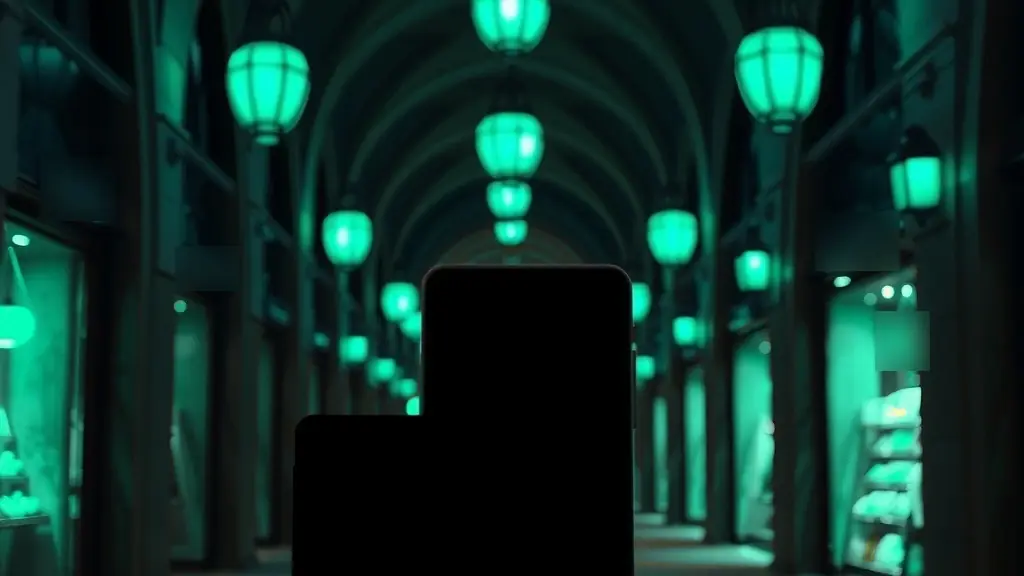
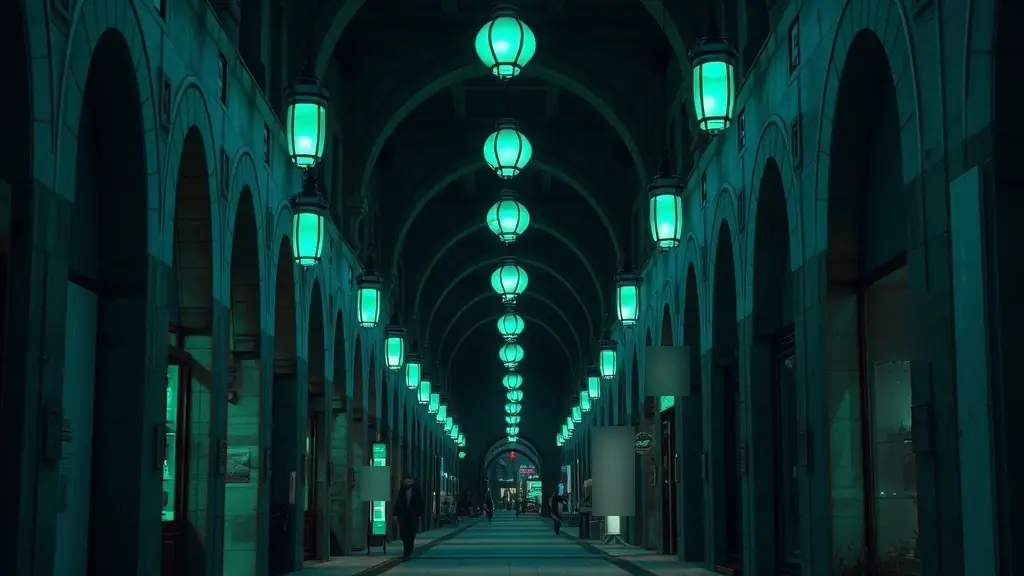
fix(web): stop-1 findings kicker hero privacy target and night carousel band
Claude-Session: https://claude.ai/code/session_01GeHFETcBQ3jaGrN6Q6L6W5
(cherry picked from commit 95dbb221fa3d94a863d00d487b184161e049a4f4)

diff --git a/tests/unit/souq-look-mix.test.ts b/tests/unit/souq-look-mix.test.ts
@@ -100,6 +100,12 @@ describe('the mixes, exactly as designed', () => {
     expect(deals.preset).toMatchObject({ productSource: 'on_sale', titleAr: 'عروض' });
     // quality bar section 9 rule 1: the merchant-photo grid sits on the light band, never on green
     expect(night.sections![4].design).toMatchObject({ bgColor: 'token:inverse', columns: 4 });
+    // B2-19: the curated and the deals carousel sit on the light band as well (merchant photos
+    // shot on white never show as white squares on the green)
+    for (const i of [2, 3])
+      expect(night.sections![i].design, `carousel ${i}`).toMatchObject({
+        bgColor: 'token:inverse',
+      });
   });
 
   it('Showroom: chips under the header, up to three stages, tiles on the surface, 2-col grid', () => {
@@ -117,6 +123,8 @@ describe('the mixes, exactly as designed', () => {
     for (const s of showroom.sections!.slice(1, 4)) {
       expect(s.design).toEqual({ layout: 'stage' });
       expect(s.preset).toMatchObject({ limit: 1 });
+      // STOP-1: no "Gift ideas" kicker (the registry's first spotlight preset) on a stage
+      expect(s.preset).toMatchObject({ heading: '', headingAr: '' });
     }
     expect(showroom.sections![4].design).toMatchObject({
       tileShape: 'rectangle',
@@ -381,6 +389,24 @@ describe('merchant-edited surplus sections (B2-16)', () => {
     expect(sale).toHaveLength(1);
     expect(sale[0].settings.titleAr).toBe('عروض الجمعة');
     expect(sale[0].settings.limit).toBe(5);
+  });
+});
+
+describe('STOP-1 fixes on the composed documents', () => {
+  it('a fresh Showroom stage carries no heading text at all', () => {
+    const doc = applyTemplateFamily(merchantBase(), 'souq', showroom);
+    const stages = all(doc, 'product-spotlight');
+    expect(stages).toHaveLength(3);
+    for (const st of stages) {
+      expect(st.settings.heading).toBe('');
+      expect(st.settings.headingAr).toBe('');
+      expect(JSON.stringify(st.settings)).not.toMatch(/Gift ideas|أفكار للهدايا/);
+    }
+  });
+  it('both Night carousels compose on the light band and validate', () => {
+    const doc = applyTemplateFamily(merchantBase(), 'souq', night);
+    for (const c of all(doc, 'product-carousel')) expect(c.settings.bgColor).toBe('token:inverse');
+    expect(validateDefinitionSync(doc).ok).toBe(true);
   });
 });
 

diff --git a/tests/unit/souq-stop1-fixes.test.tsx b/tests/unit/souq-stop1-fixes.test.tsx
@@ -1,0 +1,50 @@
+// @vitest-environment jsdom
+/** STOP-1 findings (Phase B2 Task 7 wave 1): shared newsletter privacy link target, Night hero asset. */
+import { describe, it, expect, vi, afterEach } from 'vitest';
+import React from 'react';
+import { render, cleanup } from '@testing-library/react';
+import { readFileSync, statSync } from 'node:fs';
+import path from 'node:path';
+import { smallTargets } from '../helpers/target-size';
+
+vi.mock('../../apps/web/src/contexts/StoreContext', () => ({
+  useStore: () => ({ store: { id: 's', slug: 's', isDemo: false, theme: {}, look: null } }),
+  useStoreUrl: () => (p: string) => p,
+  useStoreTheme: () => ({}),
+}));
+vi.mock('../../apps/web/src/contexts/LanguageContext', async importOriginal => ({
+  ...(await importOriginal<Record<string, unknown>>()),
+  useLanguage: () => ({
+    language: 'en',
+    isRtl: false,
+    t: (en: string) => en,
+  }),
+}));
+afterEach(cleanup);
+
+const { NewsletterSection } = await import('../../apps/web/src/builder/sections/NewsletterSection');
+
+describe('newsletter consent line (shared by every store)', () => {
+  it('the Privacy policy link is a >= 44px target', () => {
+    const { container, getByText } = render(<NewsletterSection settings={{}} />);
+    const link = getByText('Privacy policy');
+    expect(link.tagName).toBe('A');
+    expect(link.className).toMatch(/\bmin-h-11\b/);
+    expect(smallTargets(container, 44).filter(x => /Privacy/.test(x))).toEqual([]);
+  });
+});
+
+describe('Night hero asset', () => {
+  const root = path.resolve(__dirname, '../..');
+  it('exists, is within budget and the source prompt names no device', () => {
+    const f = path.join(root, 'scripts/souq-demo/assets/hero-night.webp');
+    expect(statSync(f).size).toBeLessThanOrEqual(140 * 1024);
+    const prompts = readFileSync(path.join(root, 'scripts/souq-demo/prompts.py'), 'utf8');
+    const hero = prompts.slice(
+      prompts.indexOf("add('hero-night'"),
+      prompts.indexOf("add('hero-showroom'")
+    );
+    expect(hero).toMatch(/no devices/);
+    expect(hero).not.toMatch(/smartphone/);
+  });
+});

diff --git a/packages/shared/src/looks/registry.ts b/packages/shared/src/looks/registry.ts
@@ -296,12 +296,16 @@ export const LOOKS: readonly LookDefinition[] = [
           paddingBottom: 'tight',
         },
       },
+      // STOP-1 finding (Ruling B2-19): merchant photos shot on white sit on the light band here
+      // too, never as white squares on the green (quality bar section 9 rule 1).
       {
         type: 'product-carousel',
+        design: { bgColor: 'token:inverse', paddingTop: 'tight', paddingBottom: 'tight' },
         preset: { productSource: 'manual', limit: 8, title: 'From the souq', titleAr: 'من السوق' },
       },
       {
         type: 'product-carousel',
+        design: { bgColor: 'token:inverse', paddingTop: 'tight', paddingBottom: 'tight' },
         preset: { productSource: 'on_sale', limit: 8, title: 'Deals', titleAr: 'عروض' },
       },
       {
@@ -371,17 +375,18 @@ export const LOOKS: readonly LookDefinition[] = [
       {
         type: 'product-spotlight',
         design: { layout: 'stage' },
-        preset: { productSource: 'featured', limit: 1 },
+        // heading '' : the registry's first spotlight preset is "Gift ideas"; a stage has no kicker
+        preset: { productSource: 'featured', limit: 1, heading: '', headingAr: '' },
       },
       {
         type: 'product-spotlight',
         design: { layout: 'stage' },
-        preset: { productSource: 'manual', limit: 1 },
+        preset: { productSource: 'manual', limit: 1, heading: '', headingAr: '' },
       },
       {
         type: 'product-spotlight',
         design: { layout: 'stage' },
-        preset: { productSource: 'manual', limit: 1 },
+        preset: { productSource: 'manual', limit: 1, heading: '', headingAr: '' },
       },
       {
         type: 'collection-list',

diff --git a/apps/web/src/builder/sections/NewsletterSection.tsx b/apps/web/src/builder/sections/NewsletterSection.tsx
@@ -148,7 +148,10 @@ export function NewsletterSection({
         )}
         <p className="mt-3 text-xs text-muted-foreground">
           {tr('By subscribing you agree to receive marketing emails from this store.')}{' '}
-          <a href={storeUrl('/privacy')} className="underline">
+          <a
+            href={storeUrl('/privacy')}
+            className="inline-flex min-h-11 items-center underline underline-offset-4"
+          >
             {tr('Privacy policy')}
           </a>
         </p>

diff --git a/scripts/souq-demo/prompts.py b/scripts/souq-demo/prompts.py
@@ -53,9 +53,9 @@ add('power-bank', prod("a slim slate-black power bank with a short USB cable coi
 # phone-case-set has NO photo on purpose (the no-image product)
 # ---- heroes (16:9)
 add('hero-night', ("a long stone arcade corridor of a souq at night with plain blank arched walls and no shops, lit only by "
-                   "glowing jade green and turquoise glass lanterns hanging in a row, deep teal darkness, one dark slate "
-                   "smartphone with a blank dark screen standing on a plain dark pedestal in the foreground, cinematic "
-                   "photograph, no signs, no signage, no windows with displays, no people, " + NEG + ", no red lights, "
+                   "glowing jade green and turquoise glass lanterns hanging in a row down the middle, deep teal darkness, "
+                   "the centre of the frame is an empty stone floor, nothing on it, no objects, no devices, no people, "
+                   "cinematic photograph, no signs, no signage, no windows with displays, " + NEG + ", no red lights, "
                    "no yellow lights, no orange lanterns"), 'wide')
 add('hero-showroom', ("one dark grey smartphone standing upright on a light grey showroom table, empty light grey "
                       "wall behind it, soft overhead daylight, minimal, wide empty space on the right, " + NEG), 'wide')

diff --git a/docs/RULINGS.md b/docs/RULINGS.md
@@ -6986,4 +6986,6 @@ Ruling B2-16 (Task 4) — the three Souq mixes, and where they deviate from the 
 
 Ruling B2-17 (security review, Task 6) — the demo showroom slugs cannot be squatted, and the seed never takes over a store it does not own. Shape of the risk: the seed upserted a store BY SLUG, so a merchant who registered `storedemo` or `storedemo-souq` first would have been overwritten (catalogue, home, owner-visible settings) by the next seed run, or could have impersonated the official demo. (1) `isDemoShowroomSlug` (`@ebda/shared`, `startsWith('storedemo')`) makes `validateStoreSlug` refuse the whole family with `SLUG_RESERVED` on signup, store create, slug change and the zod edge; `allowProtected` (the super-admin brand override) never lifts it; `deriveStoreSlug` moves a name-derived `storedemo*` to `store-demo*`. It is deliberately NOT in `RESERVED_SLUGS`: a reserved label is a PLATFORM host and `storedemo.ebda.app` must keep resolving as a store (the resolver uses `validateStoreSlugFormat`, pinned by test). `demo*` in general is NOT reserved (ordinary merchants use `demo-shop`). (2) `seed.mjs` `assertSlugsClaimable` runs BEFORE the first write (owner create, store upsert): every slug the run will write must either not exist, or be an `is_demo` store owned by the seed owner (demo slugs) / a non-demo store owned by the seed owner (local review stores, `--local-look-stores`); anything else aborts with the slug and the reason and nothing is written. `scenario-stores.mjs` applies the same check. Production still needs `--yes-production` and the production asset base. Evidence: `tests/unit/demo-slug-reserved.test.ts`, `store-create-reserved-slug-route.test.ts` (create + update, 400 `SLUG_RESERVED`), `storedemo-seed-guard.test.ts` (`seedStoreClaim` cases + ordering of the check); run live against a real Postgres: a flagged-non-demo `storedemo-souq` and one owned by another user both exit 1 with the refusal and the product count is unchanged (80 before and after). NOT verified: production. The controller must run, read-only, `select slug, is_demo, owner_id from stores where slug ilike 'storedemo%';` and expect exactly `storedemo` (is_demo, owner `storedemo-owner@ebda.app`) before the Souq seed; any other row is a squat to resolve by hand. Cost if wrong: a legitimate merchant whose name derives `storedemo*` gets `store-demo*` (cosmetic); a seed run aborts instead of reseeding a hand-edited demo store (re-run after fixing ownership).
 
-Ruling B2-18 (Ahmad, STOP-1, 2026-10-21) — Night souq's CTAs are BRASS `#C89B3C`; all three directions approved. This amends B2-2 for ONE token set only: the no-orange gate (hue 12-50, HSV saturation >= 35 %, B2-11) has a scoped exception for exactly the hex `#C89B3C` as `souq.night`'s primary CTA tokens (look token `primary`; composed theme `primaryColor`, `ringColor`; CSS variables `--primary`, `--ring`). Nothing else of Night (page, surface, ink, muted, line, accent, status inks), no other Souq look, no Qamar look and no other hex is exempt: a real orange or amber stays banned and an off-by-one brass is not the allowlisted hex. Brass keeps the contrast bars: dark ink `#10151C` on it 7.16:1 (>= 4.5), brass as text on the Night page 4.87:1 (>= 4.5), as a UI boundary on the page 4.87 and the card 3.4+:1 (>= 3). The pomegranate chip fill (B2-2, B2-15 M1) is unchanged. `SOUQ_NIGHT_ALT_BRASS` and `looks/stop-alternatives.ts` (the STOP-1 alternative, B2-15 M4) are deleted: the alternative IS the default now, and a test pins that the module and every reference are gone. Evidence: `tests/unit/souq-look-tokens.test.ts` (exception passes only for souq.night CTA roles; the same hex fails on another look, on another Night role and on a non-CTA theme key; real oranges fail on Night primary; brass is in exactly one look token; contrast pairs). Cost if wrong: brass is orange-family adjacent; a merchant who switches to Night gets a warm brass CTA instead of the turquoise first proposed; reverting is one token edit and removing the allowlist.
+Ruling B2-18 (Ahmad, STOP-1, 2026-10-21) — Night souq's CTAs are BRASS `#C89B3C`; all three directions approved. This amends B2-2 for ONE token set only: the no-orange gate (hue 12-50, HSV saturation >= 35 %, B2-11) has a scoped exception for exactly the hex `#C89B3C` as `souq.night`'s primary CTA tokens (look token `primary`; composed theme `primaryColor`, `ringColor`; CSS variables `--primary`, `--ring`). Nothing else of Night (page, surface, ink, muted, line, accent, status inks), no other Souq look, no Qamar look and no other hex is exempt: a real orange or amber stays banned and an off-by-one brass is not the allowlisted hex. Brass keeps the contrast bars: dark ink `#10151C` on it 7.16:1 (>= 4.5), brass as text on the Night page 4.87:1 (>= 4.5), as a UI boundary on the page 4.87 and the card 3.65:1 (>= 3). The pomegranate chip fill (B2-2, B2-15 M1) is unchanged. `SOUQ_NIGHT_ALT_BRASS` and `looks/stop-alternatives.ts` (the STOP-1 alternative, B2-15 M4) are deleted: the alternative IS the default now, and a test pins that the module and every reference are gone. Evidence: `tests/unit/souq-look-tokens.test.ts` (exception passes only for souq.night CTA roles; the same hex fails on another look, on another Night role and on a non-CTA theme key; real oranges fail on Night primary; brass is in exactly one look token; contrast pairs). Cost if wrong: brass is orange-family adjacent; a merchant who switches to Night gets a warm brass CTA instead of the turquoise first proposed; reverting is one token edit and removing the allowlist.
+
+Ruling B2-19 (STOP-1 findings, 2026-10-21) — four fixes. (1) Showroom's three stage spotlights carry an empty heading (the registry's first spotlight preset leaked a "Gift ideas" kicker onto a hero-product stage); the demo seed sets the same empty heading. (2) Night's hero is regenerated as an empty arcade (no devices, people or signs; warm pixels shifted to jade, four blur patches, orange probe 0.0 %), replacing the dark-slab composition. (3) The newsletter consent line's Privacy policy link is a 44px target (`min-h-11`); it is shared, so every store gets it (the only rendered-probe violation in the STOP-1 pack). (4) Night's two product carousels now sit on the `token:inverse` light band with tight padding, so merchant photos shot on white never show as white squares on the green; this amends B2-16 (4), which kept them on the dark ground. Evidence: `tests/unit/souq-stop1-fixes.test.tsx`, `tests/unit/souq-look-mix.test.ts`. Cost if wrong: if Ahmad prefers dark carousels, one `design` object per spec is removed and white-background photos look boxed on Night.

diff --git a/scripts/souq-demo/CREDITS.md b/scripts/souq-demo/CREDITS.md
@@ -19,7 +19,8 @@ Manual retouches (PIL, offline; recorded here because the committed WebP is not 
 - `hero-night.webp`: the raw lantern hero measured 11.6 % orange (shop lights). `retouch.py` shifted every
   warm pixel to jade (hue 165), and `retouch-patches.py` blurred out four rectangles (two shop-sign
   lettering fragments, one stray red highlight, one more sign) in the 1024x1024 source before the 16:9 crop.
-  The two dark slabs on the pedestal are abstract devices. Probe after: 0.0 %.
+  STOP-1 replaced the earlier device-slab composition: the prompt now asks for an empty arcade (no objects,
+  devices, people or signs), so there are no dark slabs. Probe after: 0.0 %.
 - `washing-machine.webp`: the raw front view carried micro-lettering on the control panel in all four
   generations; the source was cropped (135,250 to 909,1024) to the door and drum, which has none.
 - `student-laptop.webp`: a closed lid (no keyboard): every open-laptop generation printed letters on the keys.
